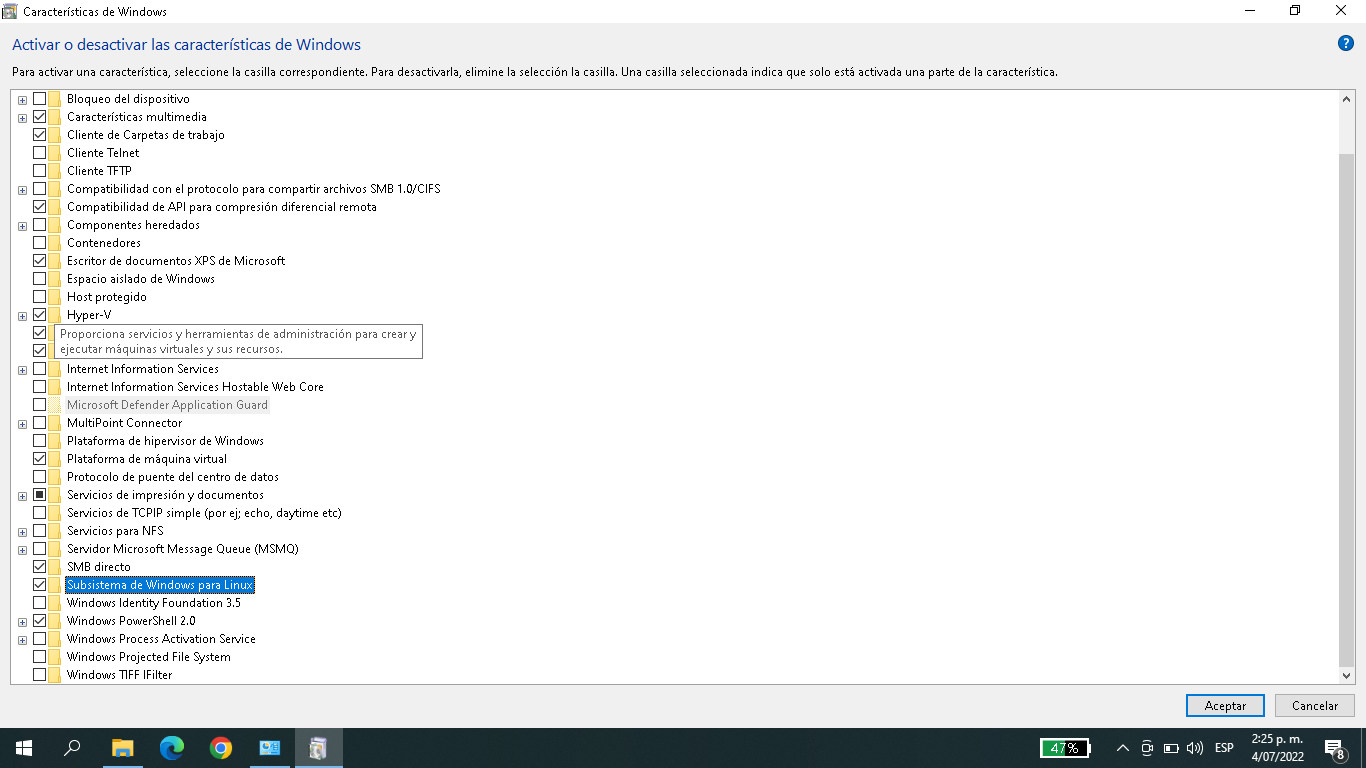
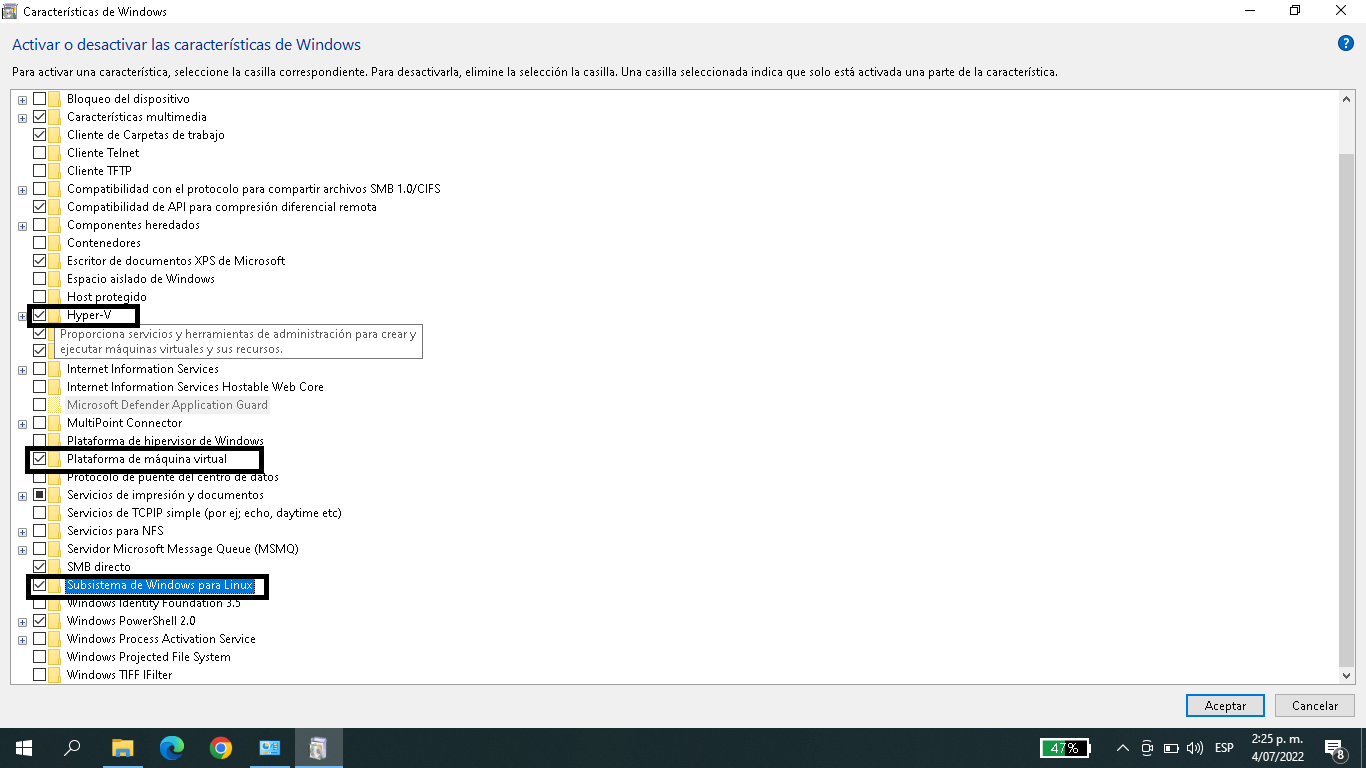
hl

Changed region(s): [[0.0, 0.5625, 0.2152, 0.625], [0.0, 0.75, 0.2152, 0.7812], [0.0, 0.375, 0.123, 0.4375]]

diff --git a/Instalación/readme.md b/Instalación/readme.md
@@ -24,3 +24,8 @@ posteriormente daremos clic en la opcion que se llama __Programas y Caracteristi
 * Luego de entrar a __Programas y Caracteristicas__ apareceran todos nuestros programas instalados en el sistema.
 En la parte superior izquierda daremos clic en la opcion que se llama __Activar o desactivar las caracteristicas de Windows__ 
 ![icono4](img/Captura%20de%20pantalla%20(545_4).png)
+
+* Una vez hayamos abierto la opcion anterior continuamos a seleccionar las funciones ya mencionadas
+![icono5](img/Captura%20de%20pantalla%20(549).png)
+ ya seleccionada cada casilla aplicamos cambios y reiniacmos el equipo
+ ![icono6](img/Captura%20de%20pantalla%20(552).png)
